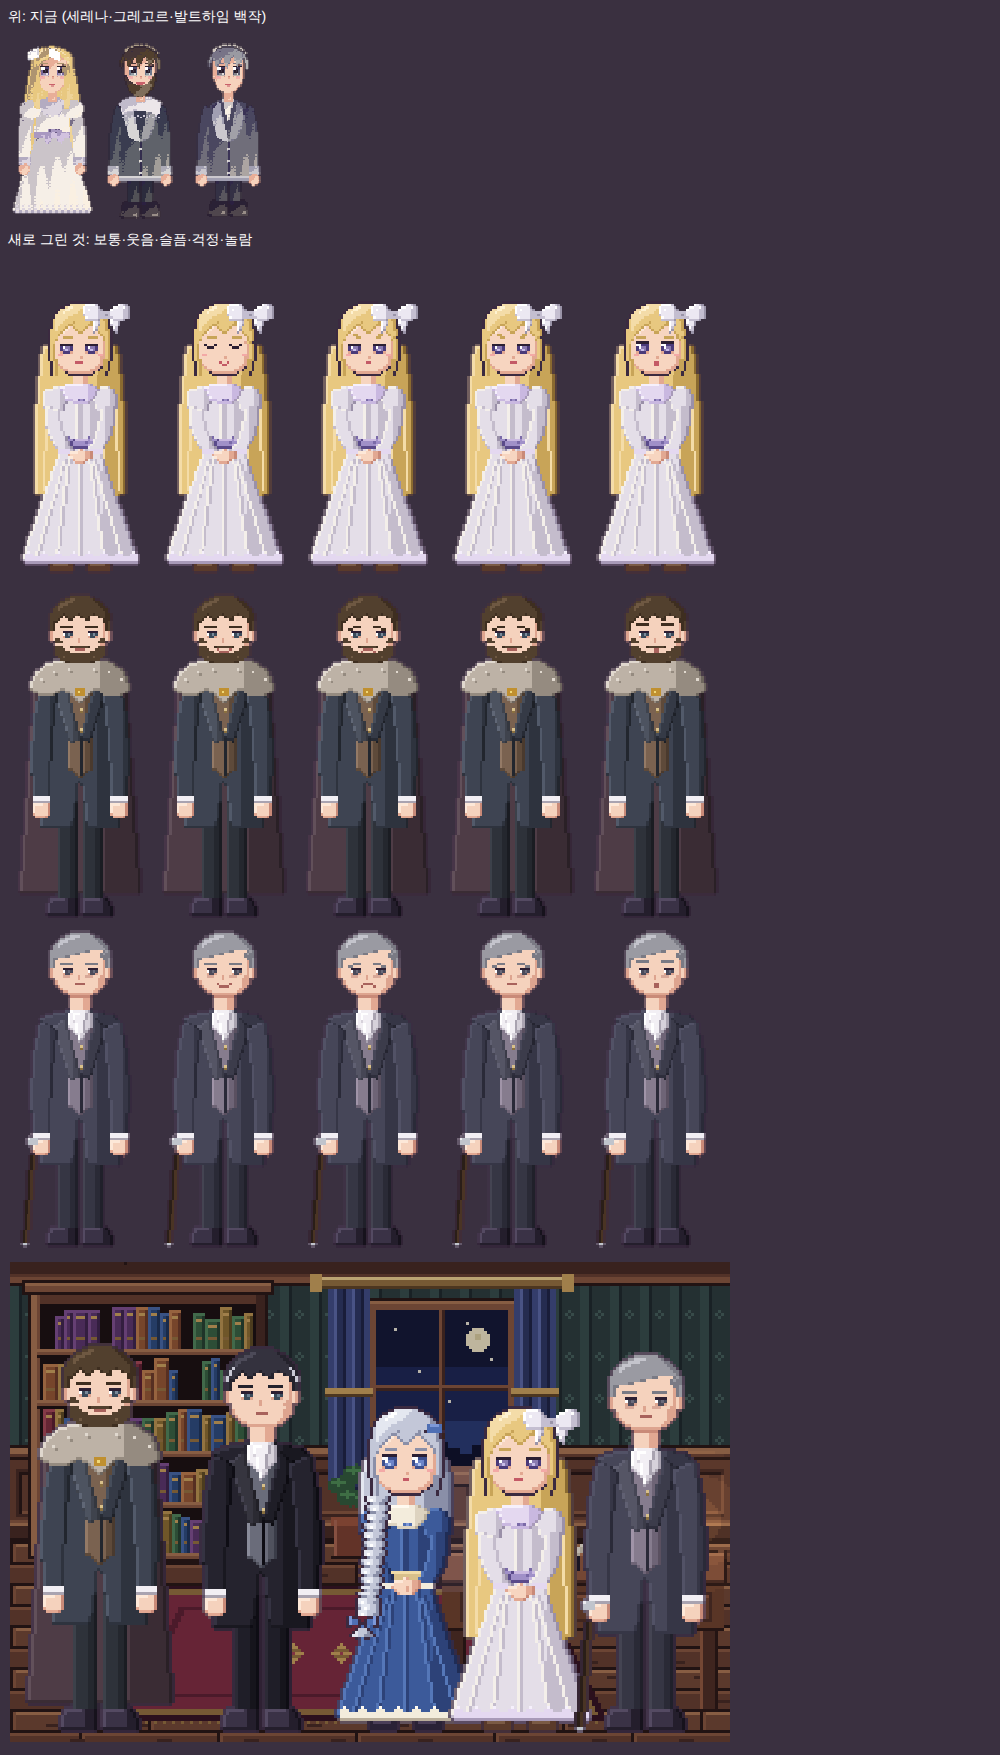
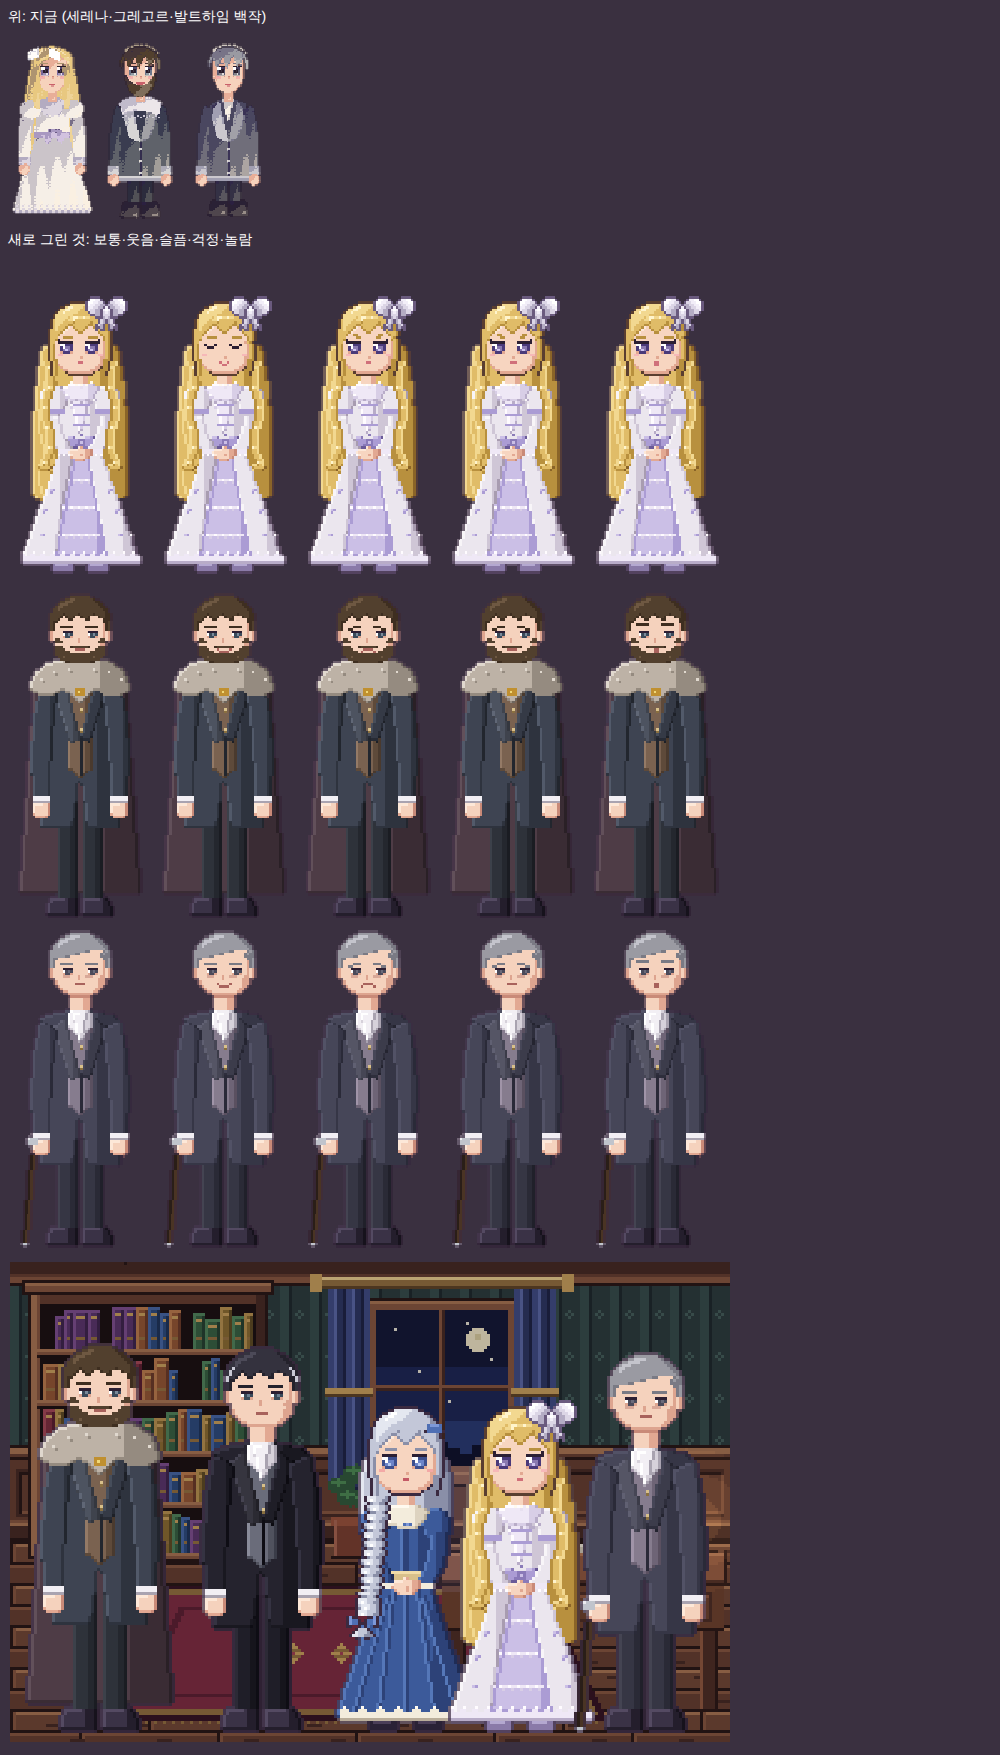
새 그림체: 세레나 리본·드레스·얼굴·머리 정교하게 (wip)
Claude-Session: https://claude.ai/code/session_01NzQUDDCoPt1Z4eH1vzoWiG

diff --git a/wip/more3.js b/wip/more3.js
@@ -235,6 +235,76 @@ function girlSprite(id,expr){
     o.r(37,6,3,3,RB[1]); o.p(38,7,RB[0]); o.p(31,5,RB[3]); o.p(45,4,RB[3]); }
   return {c:o.c,feet:128};
 }
+// ── 세레나 전용: 공단 나비 리본, 겹치마 드레스, 물결치는 금발, 고운 눈매
+const SERENA_RIBBON=[
+"..OOOO.....OOOO..",
+".O4433O...O3344O.",
+"O443322O.O223344O",
+"O4332211O1122334O",
+"O332211O3O112233O",
+"O32211O343O11223O",
+".O2211O232O1122O.",
+"..OO11O222O11OO..",
+"....OOO121OOO....",
+".....O21O12O.....",
+".....O21O12O.....",
+"....O21O.O12O....",
+"....OO1O.O1OO....",
+"....O.OO.OO.O...."];
+function serenaSprite(expr){
+  const o=PX(56,132); const R=(x,y,w,h,c)=>o.r(x,y,w,h,c);
+  const HR=['#8a6428','#b8903e','#e0bc68','#f2d890','#fff4cc'];
+  const IV=['#a89cb0','#cfc6d6','#ebe6ee','#f8f5f8','#ffffff'];          // 상아빛 흰 드레스
+  const LI=['#6a5a98','#8a7ab8','#ab9cd4','#cbbfe6','#e6def6'];          // 연보라
+  const LC=['#b8acc8','#d8cee6','#efe8f6','#fffcff'];                    // 레이스
+  const SK=['#c98a78','#e2a892','#f7d5c0','#fde8d8'];
+  // 뒷머리: 허리 아래까지, 끝은 동그란 컬
+  celPath(o,'M13 20 C9 40 8 66 9 84 C9 92 15 92 17 88 C18 93 25 93 26 88 C28 93 33 93 35 88 C37 93 43 93 44 88 C47 92 48 84 47 76 C48 60 47 40 43 20 Z',HR);
+  for(let y=34;y<88;y++){ const w=Math.round(1.2*Math.sin(y/4.5)); [12,17,39,44].forEach((x,k)=>o.p(x+w,y,k%2?HR[1]:HR[3])); }
+  [[13,89],[21,90],[30,90],[39,90]].forEach(c=>{ o.p(c[0],c[1],HR[4]); o.p(c[0]+1,c[1]-1,HR[3]); o.p(c[0]+2,c[1],HR[1]); o.p(c[0]+1,c[1]+1,HR[1]); });
+  // 속치마(연보라 레이스 단 3층)
+  celPath(o,'M23 60 L33 60 C37 80 41 102 44 122 L12 122 C15 102 19 80 23 60 Z',LI.slice(1));
+  [78,94,110].forEach((y,k)=>{ const half=6+k*4+Math.round((y-78)/5); for(let X=28-half;X<=28+half;X++){ o.p(X,y,LC[(X%3===0)?3:2]); o.p(X,y+1,(X%3===0)?LC[1]:LC[2]); if(X%3===1) o.p(X,y+2,LC[1]); } });
+  // 겉치마(앞이 열린 상아빛)
+  celPath(o,'M20 60 C16 78 10 102 5 124 L18 124 C20 100 23 80 26 61 Z',IV); celPath(o,'M36 60 C40 78 46 102 51 124 L38 124 C36 100 33 80 30 61 Z',IV);
+  o.line(26,62,18,123,LI[2]); o.line(30,62,38,123,LI[2]);
+  [[13,96],[16,84],[42,96],[39,84],[12,110],[43,110]].forEach(p=>{ o.p(p[0],p[1],LI[3]); o.p(p[0]+1,p[1],LI[2]); o.p(p[0],p[1]+1,LI[2]); });  // 작은 꽃수
+  for(let X=5;X<52;X++){ const y=121+((X%4)<2?0:1); R(X,y,1,124-y,LC[2]); o.p(X,124,LC[0]); if(X%4===1) o.p(X,120,LC[3]); }
+  R(17,125,8,3,'#8a7aa8'); R(31,125,8,3,'#8a7aa8'); R(18,125,5,1,'#b4a8d0'); R(32,125,5,1,'#b4a8d0');
+  // 몸판
+  celPath(o,'M19 38 C22 36 34 36 37 38 L36 60 L20 60 Z',IV);
+  celPath(o,'M23 39 L33 39 L28 56 Z',LC);  [43,47,51].forEach(y=>{ o.line(25,y,31,y,LI[2]); }); o.p(28,55,LI[1]);
+  // 허리띠 + 앞 리본
+  R(20,57,16,4,LI[2]); R(20,57,16,1,LI[4]); R(20,60,16,1,LI[0]);
+  celPath(o,'M28 58 C24 54 20 57 22 61 C24 62 26 61 28 59 Z',LI); celPath(o,'M28 58 C32 54 36 57 34 61 C32 62 30 61 28 59 Z',LI);
+  o.r(27,57,3,3,LI[1]); o.p(28,58,LI[3]);
+  // 소매: 부푼 어깨 + 연보라 띠
+  celPath(o,'M12 44 C10 36 18 33 23 38 L22 47 C19 48 14 48 12 44 Z',IV); celPath(o,'M44 44 C46 36 38 33 33 38 L34 47 C37 48 42 48 44 44 Z',IV);
+  R(13,45,9,2,LI[2]); R(34,45,9,2,LI[2]); o.p(15,45,LI[4]); o.p(40,45,LI[4]);
+  celPath(o,'M14 47 C13 53 16 60 22 64 L26 62 C22 58 20 53 20 48 Z',IV); celPath(o,'M42 47 C43 53 40 60 34 64 L30 62 C34 58 36 53 36 48 Z',IV);
+  R(19,61,5,3,LC[2]); R(32,61,5,3,LC[2]); for(let X=19;X<24;X+=2) o.p(X,64,LC[3]); for(let X=32;X<37;X+=2) o.p(X,64,LC[3]);
+  celPath(o,'M23 62 C25 60 31 60 33 62 C33 66 30 68 28 68 C26 68 23 66 23 62 Z',SK); o.p(28,63,SK[1]); o.p(28,64,SK[1]);
+  // 목 + 레이스 깃 + 진주
+  R(25,30,6,7,SK[2]); R(29,30,2,7,SK[1]); R(25,30,6,1,SK[1]);
+  celPath(o,'M20 37 C23 34 33 34 36 37 L33 41 C30 42 26 42 23 41 Z',LC);
+  for(let X=22;X<35;X+=2) o.p(X,41+((X%4)?0:1),LC[0]);
+  [[24,34],[26,35],[28,35],[30,35],[32,34]].forEach(p=>o.p(p[0],p[1],'#fffaf0')); o.p(28,36,'#e8e0f0');
+  // 앞으로 내린 옆머리 두 갈래(물결)
+  const lock=(x0,dir)=>{ for(let y=26;y<70;y++){ const x=x0+Math.round(1.4*Math.sin((y-26)/4))*dir; R(x,y,4,1,HR[2]); o.p(x,y,dir>0?HR[3]:HR[1]); o.p(x+3,y,dir>0?HR[1]:HR[3]); if((y-26)%8===2){ o.p(x+1,y,HR[4]); o.p(x+2,y,HR[3]); } }
+    const ex=x0+Math.round(1.4*Math.sin(44/4))*dir; celPath(o,`M${ex-1} 69 C${ex-2} 74 ${ex+5} 75 ${ex+5} 70 Z`,HR); };
+  lock(13,1); lock(39,-1);
+  outlinePass(o);
+  // 얼굴·머리 (아델라인 지도 + 금발 + 보라 눈 + 고운 속눈썹)
+  const pal=Object.assign({},ADE_PAL,{h:HR[1],H:HR[2],L:HR[3],W:HR[4],b:'#4a3a7a',B:'#8a7ab0',c:'#d0c4f0',r:'#f6b8b8',m:'#d0707a',O:'#5a3e30'});
+  const rows=ADE_HEAD.slice(); const ex=ADE_EXPR[expr]; if(ex) for(const k in ex) rows[k]=ex[k];
+  setAt(rows,6,10,'LWWLLWLL'); setAt(rows,7,9,'LLW'); setAt(rows,5,18,'LL');          // 정수리 윤기(천사의 고리)
+  if(expr!=='smile'){ setAt(rows,16,5,'e'); setAt(rows,16,21,'e'); setAt(rows,15,5,'e'); setAt(rows,15,21,'e'); }   // 바깥으로 올라간 속눈썹
+  if(!expr||expr==='neutral'){ setAt(rows,24,12,'SmmS'); }
+  stampMap(o,rows,14,2,pal);
+  // 공단 나비 리본 (머리 위 오른쪽)
+  stampMap(o,SERENA_RIBBON,30,0,{O:'#6a5a7e','1':'#b4acc4','2':'#dcd6e6','3':'#f2eef8','4':'#ffffff'});
+  return {c:o.c,feet:128};
+}
 // ── 어른 남자 추가: 그레고르 대공(수염, 털 망토, 큰 키), 발트하임 백작(회색 머리, 지친 눈, 모자를 든 손)
 const MALE2={
  gregor:{type:'m',hs:'short',hair:['#2e2218','#3e2e20','#52402e','#6e5842'],eye:['#3a4a5a','#7a8a9a'],coat:['#22262e','#2e333e','#3e4452','#525a6a'],vest:['#4a3a2e','#5e4a3a','#7a6250','#947a66'],pants:['#1a1c22','#24272e','#2e323a','#3c414a'],cravat:false,long:true,feet:131,beard:true,mantle:['#2a2026','#3a2c34','#4e3c46','#62505a'],fur:['#6e665e','#958b80','#bdb2a6','#e0d8ce']},

diff --git a/wip/batch4_view.js b/wip/batch4_view.js
@@ -9,8 +9,8 @@ const fs=require('fs'); const SP=__dirname;
   const old=await p.evaluate(ids=>ids.map(id=>sprite(id,'neutral').c.toDataURL()),ids);
   for(const f of ['cel.js','study2.js','ade2.js','more2.js','more3.js']) await p.addScriptTag({content:fs.readFileSync(SP+'/'+f,'utf8')});
   const E=['neutral','smile','sad','worry','surprise'];
-  const rows=await p.evaluate(E=>['serena','gregor','count'].map(id=>E.map(e=>id==='serena'?kid(id,girlSprite(id,e)):adultMale(id,e))).map(r=>r.map(s=>s.c.toDataURL())),E);
-  const stage=await p.evaluate(()=>{ const o=PX(240,160); study2(o,seasonPal('겨울')); [[adultMale('gregor','neutral'),2],[maleSprite('edric','neutral'),56],[kid('adeline',adeSprite('neutral')),104],[kid('serena',girlSprite('serena','neutral')),142],[adultMale('count','neutral'),184]].forEach(a=>o.x.drawImage(a[0].c,a[1],156-a[0].feet)); return o.c.toDataURL(); });
+  const rows=await p.evaluate(E=>['serena','gregor','count'].map(id=>E.map(e=>id==='serena'?kid(id,serenaSprite(e)):adultMale(id,e))).map(r=>r.map(s=>s.c.toDataURL())),E);
+  const stage=await p.evaluate(()=>{ const o=PX(240,160); study2(o,seasonPal('겨울')); [[adultMale('gregor','neutral'),2],[maleSprite('edric','neutral'),56],[kid('adeline',adeSprite('neutral')),104],[kid('serena',serenaSprite('neutral')),142],[adultMale('count','neutral'),184]].forEach(a=>o.x.drawImage(a[0].c,a[1],156-a[0].feet)); return o.c.toDataURL(); });
   await p.evaluate((old,rows,stage)=>{ document.body.innerHTML='<div style="background:#3a3040;padding:8px;color:#fff;font:14px sans-serif"><div>위: 지금 (세레나·그레고르·발트하임 백작)</div><div id=a></div><div>새로 그린 것: 보통·웃음·슬픔·걱정·놀람</div><div id=b0></div><div id=b1></div><div id=b2></div><div id=c></div></div>';
     const put=(el,arr,w,h)=>arr.forEach(u=>{ const i=new Image(); i.src=u; i.style.cssText='width:'+w+'px;height:'+h+'px;image-rendering:pixelated;margin:2px'; document.getElementById(el).appendChild(i); });
     put('a',old,84,198); rows.forEach((r,k)=>put('b'+k,r,140,330)); put('c',[stage],720,480); },old,rows,stage);

diff --git a/wip/README.md b/wip/README.md
@@ -20,4 +20,4 @@
 - 머리 모양은 함부로 바꾸지 않는다: 긴 옆머리(카일런)·넘긴 머리(리오넬)는 사용자가 "이상하다"고 해서 되돌림.
 - 세바스티안: 마탑 로브(금단)·둥근 안경(렌즈 비움)·책, 반쯤 감긴 차분한 눈. 하델: 가죽 웃옷·허리띠·어깨 보호대·허리에 찬 검, 굵은 눈썹, 늘 붉은 귀(놀람·걱정 때 더 붉게). 로잘리: 허리까지 늘어뜨린 적갈색 머리·분홍 드레스·수첩과 연필, 살짝 벌린 입.
 - 하델은 **검은 머리** (사용자 지정, canon.md에 기록). 카일런의 검푸른 머리와 구분되게 푸른 기 없는 검정.
-- 세레나: 금발 긴 머리·하얀 나비 리본·흰 드레스와 연보라 띠, 반쯤 내리뜬 눈. 그레고르: 짙은 갈색 수염·털 망토·금 걸쇠, 가장 큰 키. 발트하임 백작: 회색 머리·지친 눈 밑·은 손잡이 지팡이.
+- 세레나(전용 `serenaSprite`, 사용자 요청으로 더 곱게): 공단 나비 리본(점 지도 `SERENA_RIBBON`), 앞이 열린 상아빛 겉치마 + 연보라 레이스 속치마 3단, 꽃수, 진주 깃, 허리 앞 리본, 부푼 소매 띠, 끝이 동그랗게 말린 금발과 앞으로 내린 물결 옆머리 두 갈래, 정수리 윤기, 바깥으로 올라간 속눈썹. 그레고르: 짙은 갈색 수염·털 망토·금 걸쇠, 가장 큰 키. 발트하임 백작: 회색 머리·지친 눈 밑·은 손잡이 지팡이.
